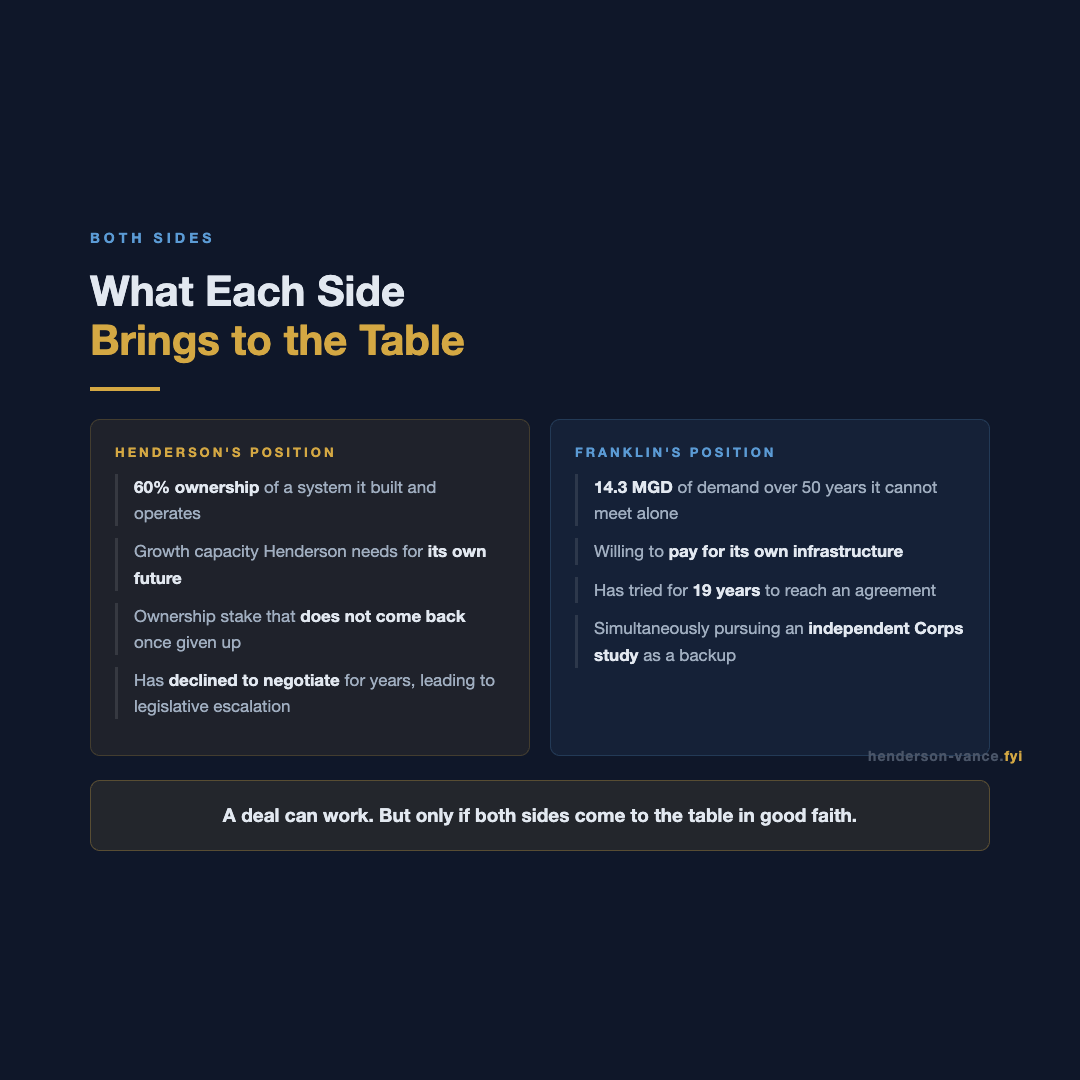
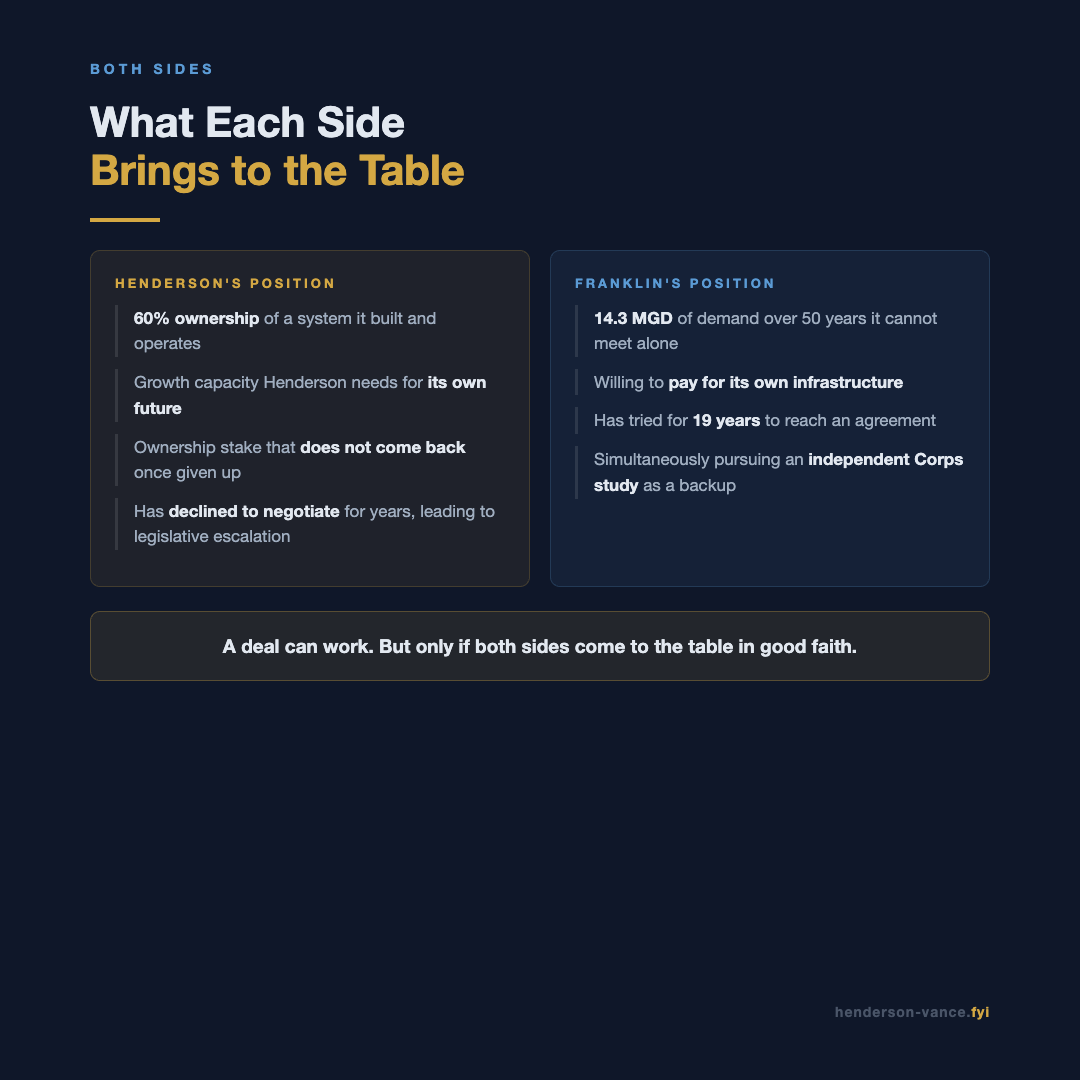
Fix brand positioning: bottom-right, no overlap on all 10 cards

diff --git a/public/carousel/franklin-10-cta.html b/public/carousel/franklin-10-cta.html
@@ -12,7 +12,7 @@
     color: #e2e8f0;
     display: flex;
     flex-direction: column;
-    justify-content: center;
+    justify-content: flex-start;
     align-items: center;
     padding: 60px 90px;
     text-align: center;
@@ -63,10 +63,10 @@
     line-height: 1.5;
     max-width: 600px;
   }
-  .site-brand {
-    position: absolute;
-    bottom: 36px;
-    right: 40px;
+  .site-brand { margin-top: auto; text-align: right; padding-top: 20px;
+    
+    
+    
     font-size: 14px;
     font-weight: 700;
     letter-spacing: 1px;

diff --git a/public/carousel/franklin-03-ownership.html b/public/carousel/franklin-03-ownership.html
@@ -12,7 +12,7 @@
     color: #e2e8f0;
     display: flex;
     flex-direction: column;
-    justify-content: center;
+    justify-content: flex-start;
     padding: 60px 90px;
   }
   .label {
@@ -73,10 +73,10 @@
     line-height: 1.5;
   }
   .footer-note strong { color: #e2e8f0; }
-  .site-brand {
-    position: absolute;
-    bottom: 36px;
-    right: 40px;
+  .site-brand { margin-top: auto; text-align: right; padding-top: 20px;
+    
+    
+    
     font-size: 14px;
     font-weight: 700;
     letter-spacing: 1px;

diff --git a/public/carousel/franklin-09-protections.html b/public/carousel/franklin-09-protections.html
@@ -12,7 +12,7 @@
     color: #e2e8f0;
     display: flex;
     flex-direction: column;
-    justify-content: center;
+    justify-content: flex-start;
     padding: 50px 80px;
   }
   .label {
@@ -74,10 +74,10 @@
     line-height: 1.5;
   }
   .footer-note strong { color: #e2e8f0; }
-  .site-brand {
-    position: absolute;
-    bottom: 36px;
-    right: 40px;
+  .site-brand { margin-top: auto; text-align: right; padding-top: 20px;
+    
+    
+    
     font-size: 14px;
     font-weight: 700;
     letter-spacing: 1px;

diff --git a/public/carousel/franklin-01-hook.html b/public/carousel/franklin-01-hook.html
@@ -12,7 +12,7 @@
     color: #e2e8f0;
     display: flex;
     flex-direction: column;
-    justify-content: center;
+    justify-content: flex-start;
     padding: 60px 90px;
   }
   .label {
@@ -74,10 +74,10 @@
     line-height: 1.5;
   }
   .deadline strong { color: #d4a843; }
-  .site-brand {
-    position: absolute;
-    bottom: 36px;
-    right: 40px;
+  .site-brand { margin-top: auto; text-align: right; padding-top: 20px;
+    
+    
+    
     font-size: 14px;
     font-weight: 700;
     letter-spacing: 1px;

diff --git a/public/carousel/franklin-06-stakes.html b/public/carousel/franklin-06-stakes.html
@@ -12,7 +12,7 @@
     color: #e2e8f0;
     display: flex;
     flex-direction: column;
-    justify-content: center;
+    justify-content: flex-start;
     padding: 60px 90px;
   }
   .label {
@@ -83,10 +83,10 @@
     line-height: 1.5;
     text-align: center;
   }
-  .site-brand {
-    position: absolute;
-    bottom: 36px;
-    right: 40px;
+  .site-brand { margin-top: auto; text-align: right; padding-top: 20px;
+    
+    
+    
     font-size: 14px;
     font-weight: 700;
     letter-spacing: 1px;

diff --git a/public/carousel/franklin-08-pattern.html b/public/carousel/franklin-08-pattern.html
@@ -12,7 +12,7 @@
     color: #e2e8f0;
     display: flex;
     flex-direction: column;
-    justify-content: center;
+    justify-content: flex-start;
     padding: 60px 90px;
   }
   .label {
@@ -93,10 +93,10 @@
     line-height: 1.5;
     text-align: center;
   }
-  .site-brand {
-    position: absolute;
-    bottom: 36px;
-    right: 40px;
+  .site-brand { margin-top: auto; text-align: right; padding-top: 20px;
+    
+    
+    
     font-size: 14px;
     font-weight: 700;
     letter-spacing: 1px;

diff --git a/public/carousel/franklin-04-math.html b/public/carousel/franklin-04-math.html
@@ -12,7 +12,7 @@
     color: #e2e8f0;
     display: flex;
     flex-direction: column;
-    justify-content: center;
+    justify-content: flex-start;
     padding: 60px 90px;
   }
   .label {
@@ -89,10 +89,10 @@
     color: #e05050;
     margin-left: auto;
   }
-  .site-brand {
-    position: absolute;
-    bottom: 36px;
-    right: 40px;
+  .site-brand { margin-top: auto; text-align: right; padding-top: 20px;
+    
+    
+    
     font-size: 14px;
     font-weight: 700;
     letter-spacing: 1px;

diff --git a/public/carousel/franklin-07-revenue.html b/public/carousel/franklin-07-revenue.html
@@ -12,7 +12,7 @@
     color: #e2e8f0;
     display: flex;
     flex-direction: column;
-    justify-content: center;
+    justify-content: flex-start;
     padding: 60px 90px;
   }
   .label {
@@ -88,10 +88,10 @@
     color: #e2e8f0;
     line-height: 1.5;
   }
-  .site-brand {
-    position: absolute;
-    bottom: 36px;
-    right: 40px;
+  .site-brand { margin-top: auto; text-align: right; padding-top: 20px;
+    
+    
+    
     font-size: 14px;
     font-weight: 700;
     letter-spacing: 1px;

diff --git a/public/carousel/franklin-02-letter.html b/public/carousel/franklin-02-letter.html
@@ -12,7 +12,7 @@
     color: #e2e8f0;
     display: flex;
     flex-direction: column;
-    justify-content: center;
+    justify-content: flex-start;
     padding: 60px 90px;
   }
   .label {
@@ -92,10 +92,10 @@
     font-size: 13px;
     color: #4a5568;
   }
-  .site-brand {
-    position: absolute;
-    bottom: 36px;
-    right: 40px;
+  .site-brand { margin-top: auto; text-align: right; padding-top: 20px;
+    
+    
+    
     font-size: 14px;
     font-weight: 700;
     letter-spacing: 1px;

diff --git a/public/carousel/franklin-05-kerrlake.html b/public/carousel/franklin-05-kerrlake.html
@@ -12,7 +12,7 @@
     color: #e2e8f0;
     display: flex;
     flex-direction: column;
-    justify-content: center;
+    justify-content: flex-start;
     padding: 60px 90px;
   }
   .label {
@@ -83,10 +83,10 @@
     font-size: 13px;
     color: #4a5568;
   }
-  .site-brand {
-    position: absolute;
-    bottom: 36px;
-    right: 40px;
+  .site-brand { margin-top: auto; text-align: right; padding-top: 20px;
+    
+    
+    
     font-size: 14px;
     font-weight: 700;
     letter-spacing: 1px;
